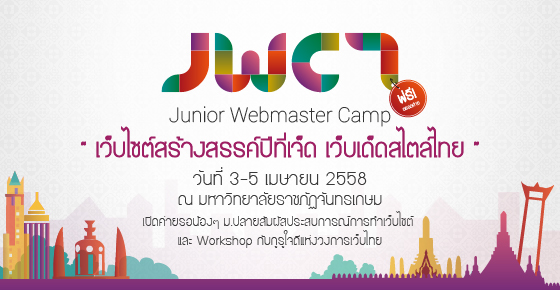
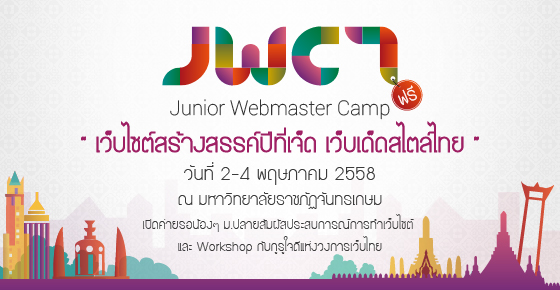
change image, wording in mediacenter

Changed region(s): [[0.1214, 0.0621, 0.8804, 0.6517], [0.2429, 0.7138, 0.7589, 0.869]]

diff --git a/applicationJWC7a/views/mediacenter.php b/applicationJWC7a/views/mediacenter.php
@@ -63,7 +63,7 @@
               <!-- <img class="img-responsive img-center" src="<?= base_url() ?>assets/img/mediacenter/banner/banner_120_600-01.jpg"> -->
             </div>
             <textarea rows="13" class="banner-text form-control" onclick="this.select();">
-            "Junior Webmaster Camp 7th” ค่ายเจาะลึก วิชาชีพเว็บมาสเตอร์ ค่ายสำหรับน้องๆ มัธยมปลาย หรือเทียบเท่า ที่มีไฟและใจรักในการทำเว็บไซต์ มารวมพลังพลิกโฉมหน้าเว็บไซต์ให้เกิดขึ้นในประเทศไทย โดยปีนี้มาในแนวคิด "เว็บสร้างสรรค์ปีที่เจ็ด เว็บเด็ดสไตล์ไทย" โดยแบ่งออกเป็น 3 สาขาให้ได้เลือกตามความถนัดและสนใจ ดังนี้ 
+            “Junior Webmaster Camp 7th” ค่ายเจาะลึก วิชาชีพเว็บมาสเตอร์ ค่ายสำหรับน้องๆ มัธยมปลาย หรือเทียบเท่า ที่มีไฟและใจรักในการทำเว็บไซต์ มารวมพลังพลิกโฉมหน้าเว็บไซต์ให้เกิดขึ้นในประเทศไทย โดยปีนี้มาในแนวคิด "เว็บสร้างสรรค์ปีที่เจ็ด เว็บเด็ดสไตล์ไทย" โดยแบ่งออกเป็น 3 สาขาให้ได้เลือกตามความถนัดและสนใจ ดังนี้
 
             Web design “เสกสรรค์เว็บไซต์ให้งามงด ร่ายมนต์สะกดทุกสายตา” สาขาที่จะเนรมิตหน้าเว็บ โชว์สเต็ปดีไซน์ ไฉไลสไตล์เว็บสเตอร์ สู่การเป็นเว็บดีไซน์เนอร์อย่างแท้จริง เหมาะกับ น้องๆที่ชอบออกแบบ มีความคิดสร้างสรรค์ เป็นนักสังเกต
 
@@ -73,8 +73,8 @@
 
             ซึ่งน้องๆที่สมัครลงทะเบียนเข้าค่ายทั้งหมด จะถูกคัดเลือกอย่างเข้มข้น เพื่อค้นหาสุดยอดเยาวชนเพียง 42 คนใน 3 สาขา สาขาละ 14 คน  โดยพิจารณาจากการตอบคำถามในใบสมัครที่คัดสรรมาอย่างดี โดยการสมัครน้องๆสามารถเลือกสมัคร ได้ตามความสนใจเพียงหนึ่งสาขาเท่านั้น
 
-            ตลอดเวลาในค่ายจะมีกิจกรรมสนุกๆ ที่จะปลุกเสียงความเป็นจูเนียร์เว็บมาสเตอร์ให้ดังขึ้น  น้องๆจะได้เรียนรู้เทคนิคการออกแบบ วิธีแยบยลที่สร้างกระแสให้กับเว็บไซต์ และการใช้ทักษะการพรีเซ้นอย่างมืออาชีพ กับพี่ๆกูรูในวงการ ที่สำคัญคือ ค่ายนี้ฟรีไม่มีค่าใช้จ่ายในการสมัครและการเข้าค่าย แถมยังมีรางวัลกลับบ้านอีกด้วย รับรองว่า JWC7 เผ็ดแสบในความทรงจำของน้องๆแน่นอน สมัครได้แล้ววันนี้ - 14 มีนาคม 2558 ที่ http://www.jwc.in.th
-            ประกาศผล 21 มีนาคม 2558 วันจัดค่าย 3 - 5 เมษายน 2558 ณ มหาวิทยาลัยราชภัฏจันทรเกษม
+            ตลอดเวลาในค่ายจะมีกิจกรรมสนุกๆ ที่จะปลุกเสียงความเป็นจูเนียร์เว็บมาสเตอร์ให้ดังขึ้น  น้องๆจะได้เรียนรู้เทคนิคการออกแบบ วิธีแยบยลที่สร้างกระแสให้กับเว็บไซต์ และการใช้ทักษะการพรีเซ้นอย่างมืออาชีพ กับพี่ๆกูรูในวงการ ที่สำคัญคือ ค่ายนี้ฟรีไม่มีค่าใช้จ่ายในการสมัครและการเข้าค่าย แถมยังมีรางวัลกลับบ้านอีกด้วย รับรองว่า JWC7 เผ็ดแสบในความทรงจำของน้องๆแน่นอน สมัครได้แล้ววันนี้ - 28 มีนาคม 2558 ที่ http://www.jwc.in.th
+            ประกาศผล 4 เมษายน 2558 วันจัดค่าย 2 - 4 พฤษภาคม 2558 ณ มหาวิทยาลัยราชภัฏจันทรเกษม
             ติดตามข่าวสารผ่าน Tag และ Social Media #JWC7 #SiamWebster
             Facebook (http://facebook.com/jwcth)
             Twitter (http://twitter.com/jwcth)
